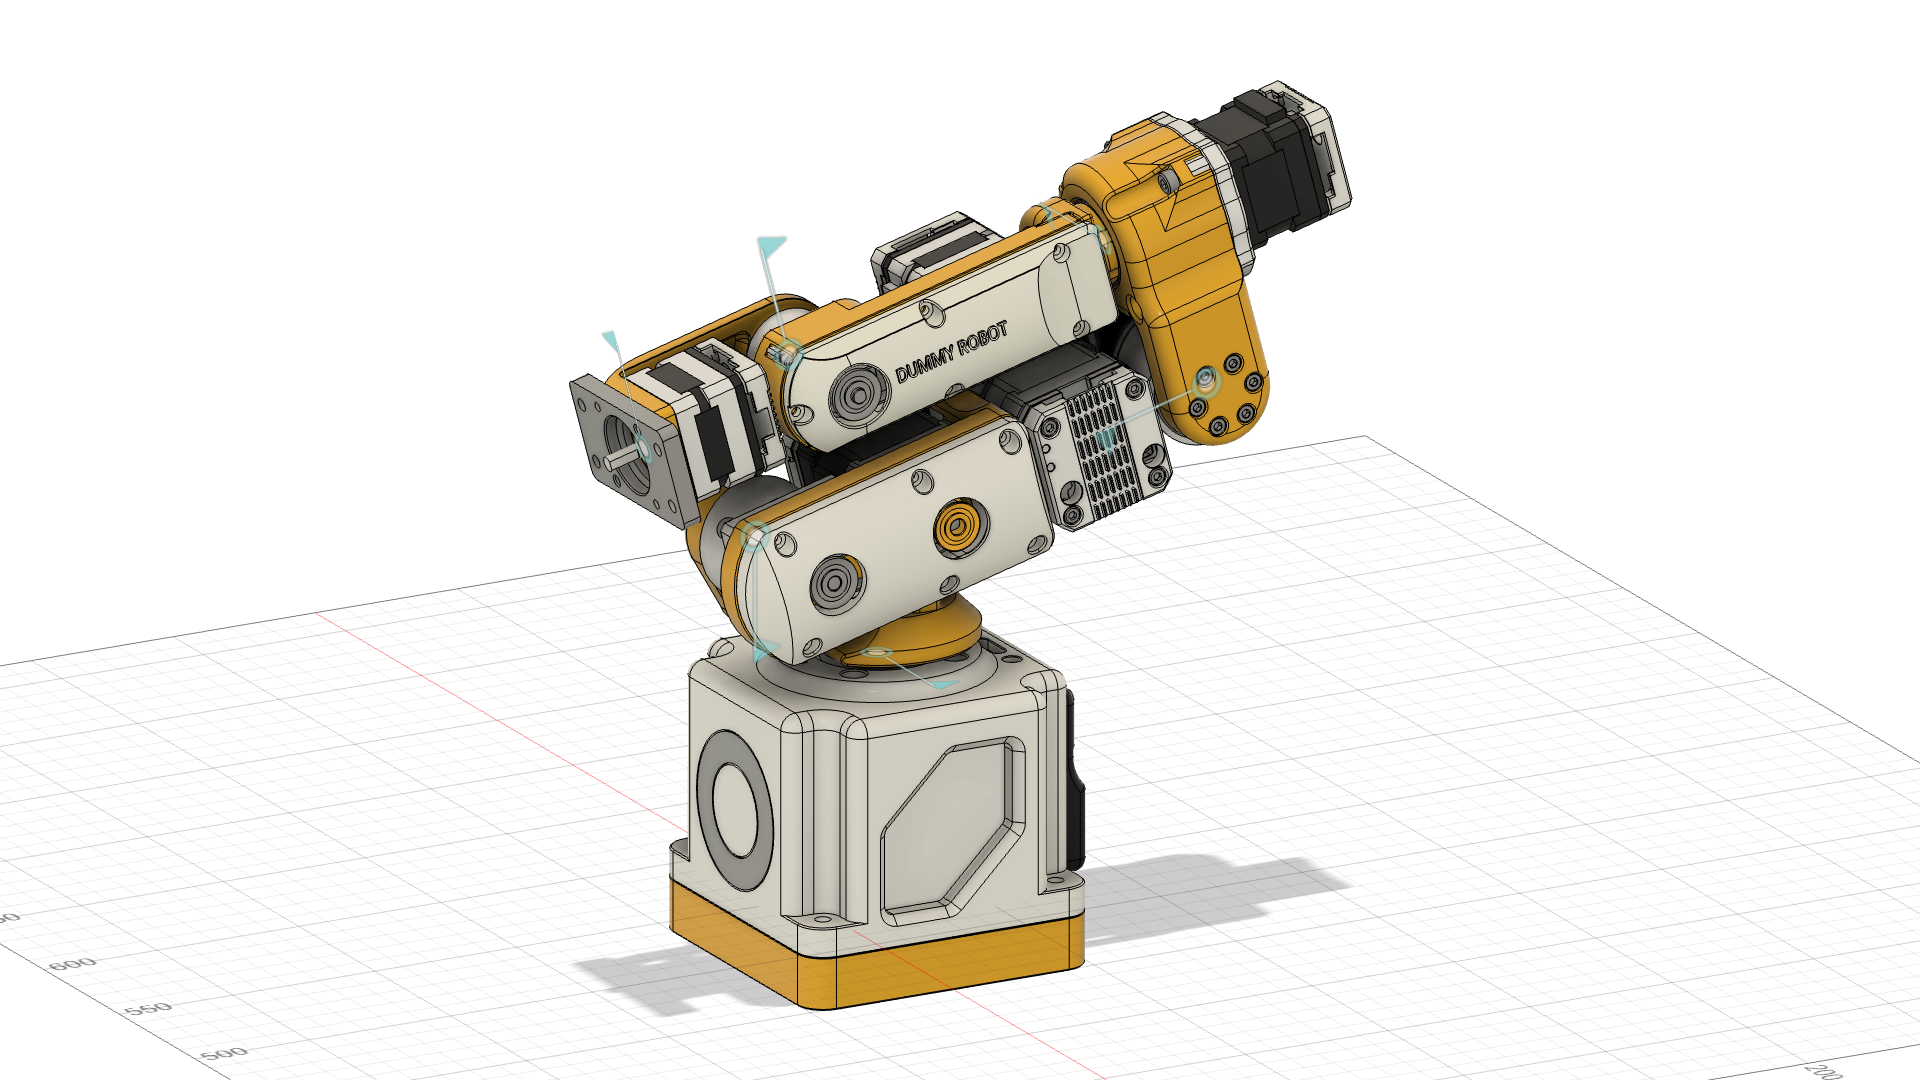
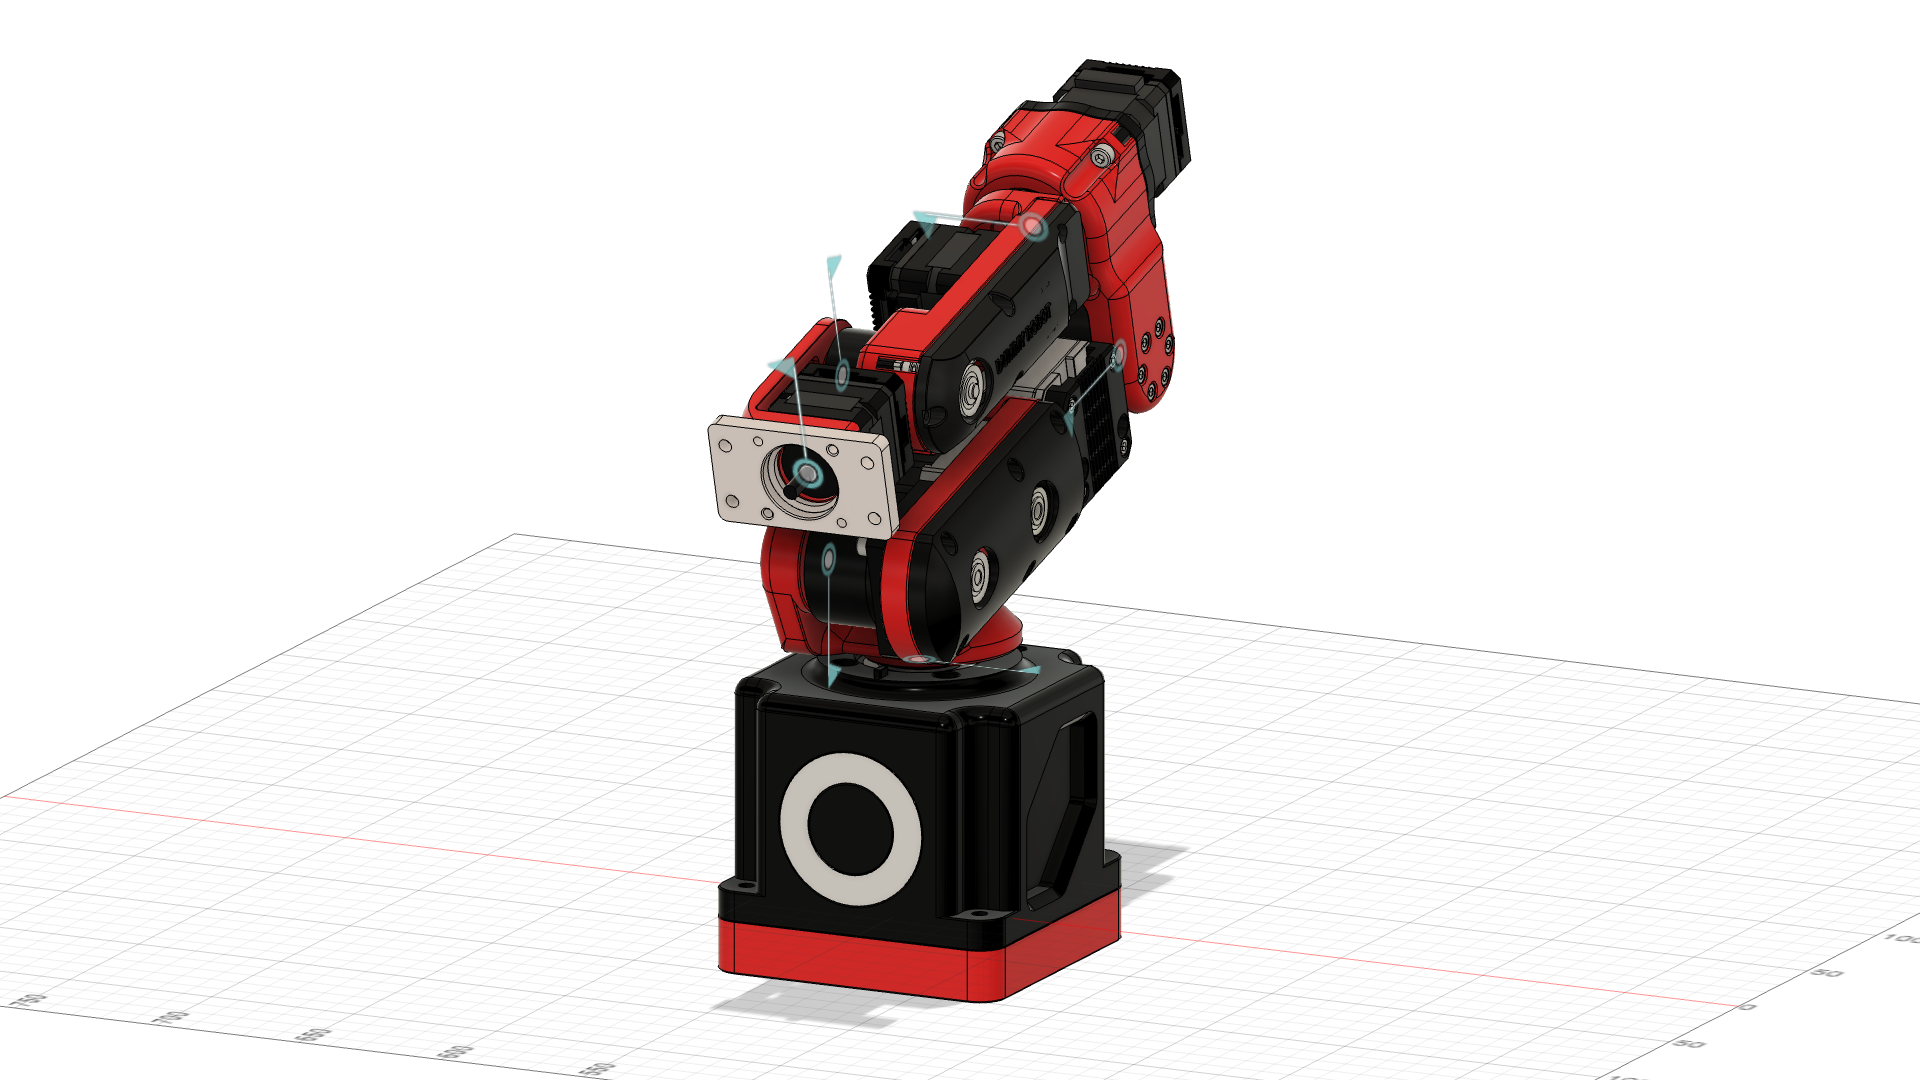
feat(visual): 采用新配色网格，并保持关节 Joint1..Joint6 规范与双模控制支持

diff --git a/src/dummyarm_cad_description/README.md b/src/dummyarm_cad_description/README.md
@@ -1,12 +1,5 @@
 # Dummy_URDF — Robot Description
 
-> **DummyArm 项目内用法**（2026-09-10 更新：直接采用 Fusion 导出，补丁版导出器）：
-> - `ros2 launch dummyarm_cad_description display_jsp.launch.py` — 滑块版（初始=设计姿态/REST），看模型/演示用
-> - `ros2 launch dummyarm_cad_description display.launch.py` — 导出器原版（mock ros2_control + 3 控制器），可用 `/position_controller/commands` 驱动
-> - 关节值 = **直接导出的 CAD 约定**（设计姿态/REST = 0）；限位按"相对 REST"（J1 ±170° / J2 [0,163°] / J3 [-145,0°] / J4 ±180° / J5 ±95° / J6 continuous）
-> - 关节名保持 CAD 的 `_1.._6`（真值链 `dummyarm_description` 用 `Joint1..6` + 模型约定）
-> - 导出/修复流程与坑见 `docs/fusion_export_workflow.md`
-
 ![Dummy_URDF](images/robot.png)
 
 ## Overview
